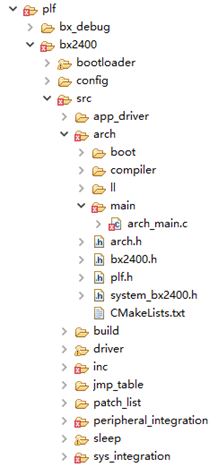
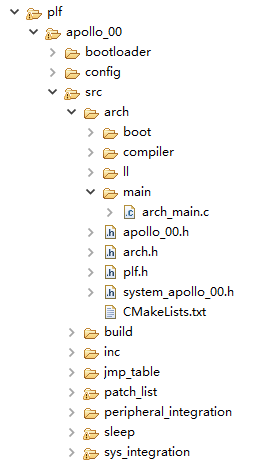
replace bx2400

Changed region(s): [[0.0826, 0.0, 0.9633, 1.0], [0.0275, 0.0, 0.0826, 0.0303]]

diff --git a/getting_started/folder_structure_software_architecture.rst b/getting_started/folder_structure_software_architecture.rst
@@ -3,7 +3,7 @@
 
 1. 目录结构
 	 
-	 BX2400 SDK的根目录结构如下:
+	 Apollo SDK的根目录结构如下:
 	 
    .. image:: folder_structure_software_architecture_img1.png
 
@@ -15,7 +15,7 @@
 
       freertos下主要包含了FreeRTOS的源码，以及开发的一些demo。
    
-      app: 包含BX2400的一些demo。例如osapp_dis_server/osapp_dis_client是dis server/client的应用，分别在板子上跑起来手机可以对联；osapp_uart_server是串口透传的应用；osapp_1M2M_master/osapp_1M2M_slave是1M PHY和2M PHY来回切换的应用等。用户自己开发的BLE相关的应用程序，通常也在这个目录下。
+      app: 包含Apollo的一些demo。例如osapp_dis_server/osapp_dis_client是dis server/client的应用，分别在板子上跑起来手机可以对联；osapp_uart_server是串口透传的应用。用户自己开发的BLE相关的应用程序，通常也在这个目录下。
 
    #. ip
    
@@ -45,19 +45,19 @@
 				 
 			.. image:: folder_structure_software_architecture_img5.png				 
 
-      plf/debug文件夹下需要用户了解的是log文件夹，其中包含了Segger RTT的源码，已经BX2400对用户封装的打印信息接口。关于RTT的具体内容，参见文档 |Debug Environment & Tools|.
+      plf/debug文件夹下需要用户了解的是log文件夹，其中包含了Segger RTT的源码，已经Apollo对用户封装的打印信息接口。关于RTT的具体内容，参见文档 |Debug Environment & Tools|.
 			
-   #. plf/bx2400
+   #. plf/apollo_00
 	 
 	    .. image:: folder_structure_software_architecture_img6.png
 	    
-	    plf/bx2400下包含的BX2400系统的主要功能。其中用户需要关心的是main文件夹，这里包含了arch_main.c文件，其中有main函数的入口。在main调用之前的系统初始化函数system_init函数也同样在arch_main.c中。
+	    plf/apollo_00下包含的Apollo系统的主要功能。其中用户需要关心的是main文件夹，这里包含了arch_main.c文件，其中有main函数的入口。在main调用之前的系统初始化函数system_init函数也同样在arch_main.c中。
 	    
 	    关于其他文件夹，这里也做一个简单的介绍，希望帮助有深入了解需求的用户。
 			
       1. bootloader
       
-         bootloader下包含了boot_rom/boot_ram/boot_ram_download，分别表示ROM中的boot工程，RAM中的boot工程，以及从Uart boot的工程。BX2400的Boot包含从ROM到RAM的两部分，详见文档 |Boot introduction|.
+         bootloader下包含了boot_rom/boot_ram/boot_ram_download，分别表示ROM中的boot工程，RAM中的boot工程，以及从Uart boot的工程。Apollo的Boot包含从ROM到RAM的两部分，详见文档 |Boot introduction|.
       
       #. config
       
@@ -77,11 +77,11 @@
 
       #. patch_list
       
-         BX2400里使用的Patch文件。
+         Apollo里使用的Patch文件。
          
       #. peripheral_integration
       
-         外设驱动中与平台相关的文件。这里的外设和BX2400平台紧密相关，但和用户调用没有直接关系。
+         外设驱动中与平台相关的文件。这里的外设和Apollo平台紧密相关，但和用户调用没有直接关系。
 
       #. sleep
       
@@ -101,7 +101,7 @@
       
 #. 软件架构
 
-   BX2400集成了FreeRTOS，可以以带FreeRTOS/不带FreeRTOS两种方式支持用户应用开发。
+   Apollo集成了FreeRTOS，可以以带FreeRTOS/不带FreeRTOS两种方式支持用户应用开发。
 
    .. image:: folder_structure_software_architecture_img7.png
 
@@ -133,13 +133,13 @@
 
 #. 软件流程
 
-   在应用场景下，BX2400软件通常是从Flash启动，之后分两步将Flash里的软件代码搬移到RAM中，并跳转到RAM中运行。这里只讨论软件被搬移到RAM中后运行的流程，关于Boot流程，请参考文档 |Boot Procedure|.
+   在应用场景下，Apollo软件通常是从Flash启动，之后分两步将Flash里的软件代码搬移到RAM中，并跳转到RAM中运行。这里只讨论软件被搬移到RAM中后运行的流程，关于Boot流程，请参考文档 |Boot Procedure|.
 
    当软件跳转到RAM中运行后，大致经历了如下几个步骤：
 
-   #. Reset_handler() in startup_bx2400.s
+   #. Reset_handler() in startup_apollo_00.s
 
-      RAM中运行软件的入口就是Reset_handler()，其具体实现是在startup_bx2400.s中。Reset_handler()里做了两件事：一是调用System_init()，这个函数在arch_main.c中，对于用户来说需要关心的是这里做了中断向量表重定位，从默认的ROM重新设置的RAM中；二是调用__main(),这是ARM里负责跳转到main()的入口函数。在调用main()之前，__main()会根据链接脚本生成的记录，初始化所有RW段，清零所有ZI段，并负责处理Load Section和Exec Section地址不同的段的代码搬移。在全局数据/代码都准备就绪之后，__main()会自动跳转到main()中。关于链接脚本，详情参见文档 |Link Script & Keil SDK Config|.
+      RAM中运行软件的入口就是Reset_handler()，其具体实现是在startup_apollo_00.s中。Reset_handler()里做了两件事：一是调用System_init()，这个函数在arch_main.c中，对于用户来说需要关心的是这里做了中断向量表重定位，从默认的ROM重新设置的RAM中；二是调用__main(),这是ARM里负责跳转到main()的入口函数。在调用main()之前，__main()会根据链接脚本生成的记录，初始化所有RW段，清零所有ZI段，并负责处理Load Section和Exec Section地址不同的段的代码搬移。在全局数据/代码都准备就绪之后，__main()会自动跳转到main()中。关于链接脚本，详情参见文档 |Link Script & Keil SDK Config|.
 
    #. main() in arch_main.c
       
@@ -149,7 +149,7 @@
       
       2. BLE相关的初始化工作，modem初始化，modem参数校准，patch初始化，NVDS初始化，以及BLE IP的初始化等。
       
-      3. 全局中断使能。没有FreeRTOS则直接进入While循环，有FreeRTOS的情况下会通过rtos_task_init()初始化所有任务，并自动开始调度。自此，BX2400的软件全部启动完成，正式开始执行BLE和用户应用程序以及相关外设。
+      3. 全局中断使能。没有FreeRTOS则直接进入While循环，有FreeRTOS的情况下会通过rtos_task_init()初始化所有任务，并自动开始调度。自此，Apollo的软件全部启动完成，正式开始执行BLE和用户应用程序以及相关外设。
 
    #. FreeRTOS任务与内部消息处理
    
